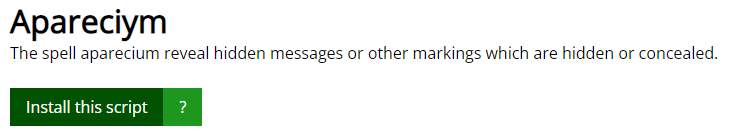
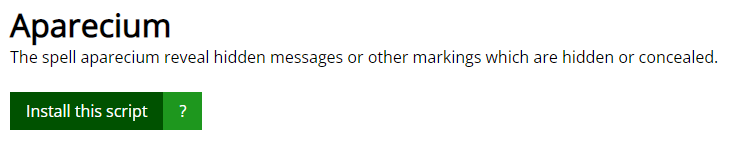
Fixed spell name

diff --git a/aparecium.user.js b/aparecium.user.js
@@ -1,6 +1,6 @@
 // ==UserScript==
-// @name         Apareciym
-// @namespace    https://github.com/xxxbrian/Apareciym
+// @name         Aparecium
+// @namespace    https://github.com/xxxbrian/Aparecium
 // @version      0.2
 // @description  The spell aparecium reveal hidden messages or other markings which are hidden or concealed.
 // @author       Bojin Li

diff --git a/README.md b/README.md
@@ -1,4 +1,4 @@
-# APARECIUM
+# APARECIUM | 现形咒
 
 **ap·ar·e·ci·um**
 _/əˈper ē sē ēəm/_
@@ -14,7 +14,7 @@ The spell aparecium reveal hidden messages or other markings which are hidden or
 
 ## How to install
 
-Apareciym is built on the [Tampermonkey](https://www.tampermonkey.net/), which is an extremely powerful tool.
+Aparecium is built on the [Tampermonkey](https://www.tampermonkey.net/), which is an extremely powerful tool.
 
 ### 1. Install Tampermonkey on your browser
 
